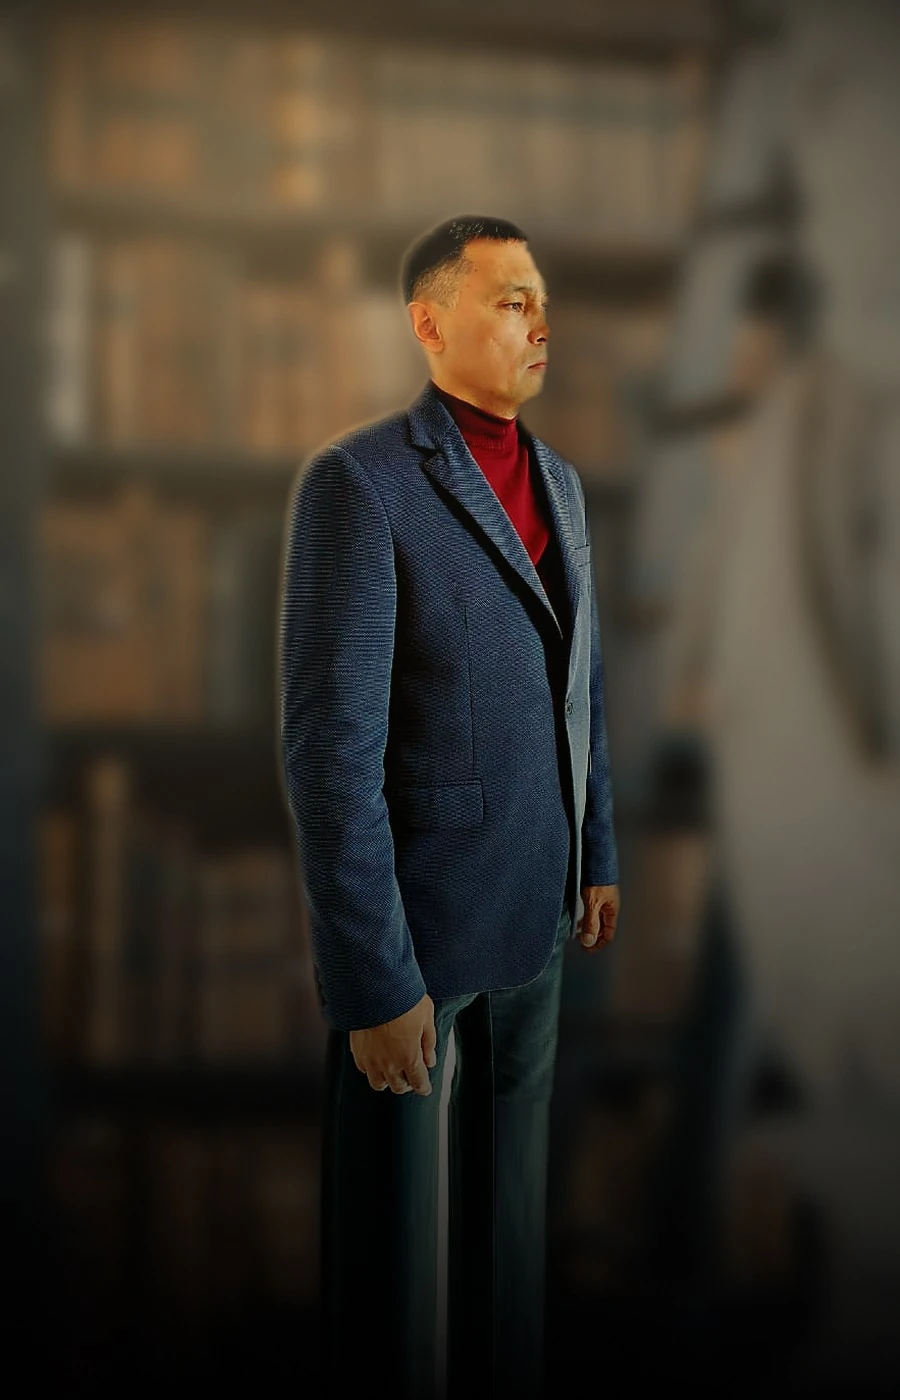
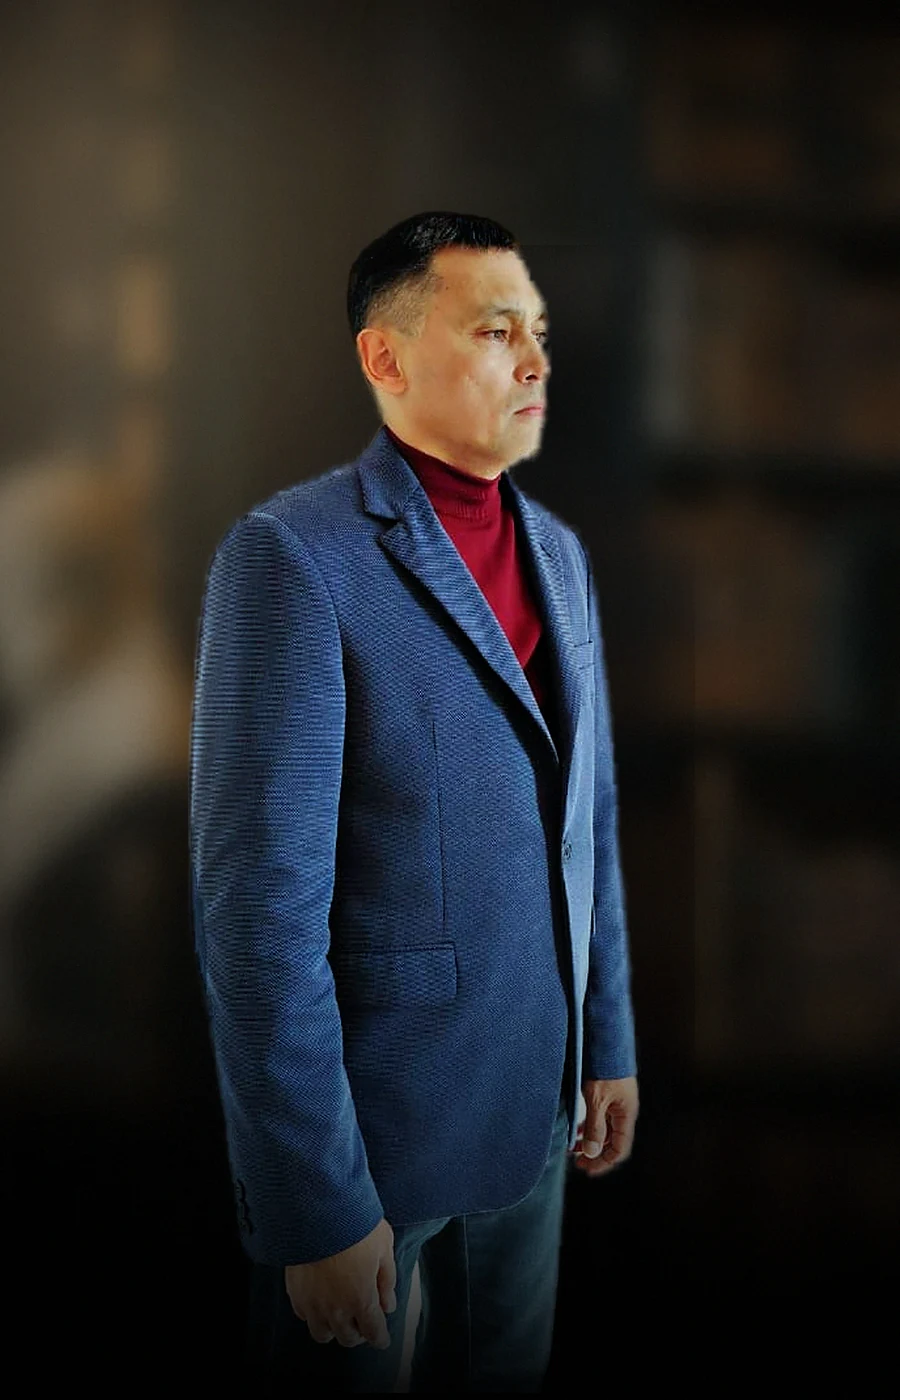
Кадр плиты пересобран с воздухом над головой, врезка из ноутбука убрана
- новый композит 2000x1200 и 900x1400: макушка на 18 % высоты, фон - настоящие стеллажи
- .plate-person: кадр приклеен к верху (origin 50% 0), scale мягче, object-position 50% 4%
- проверено на 1280/1440/1920/2560 и 390 в фазах входа - голова не режется нигде
- врезка-портрет на плите «Что принести» удалена вместе с erlan-lampa.webp
- ассеты ?v=20260909-1

Claude-Session: https://claude.ai/code/session_01RhNSLAts1pz4trK3UPD7La

diff --git a/index.html b/index.html
@@ -23,7 +23,7 @@
 <meta property="og:type" content="website">
 <meta property="og:title" content="Адвокат Ерлан Айтжанов Крупные споры о деньгах и имуществе">
 <meta property="og:description" content="Практика с 2001 года. По делам доверителей взыскано свыше 4,6 млрд тенге. Крупные споры и уголовные дела в бизнесе. Мой гонорар взыскивается с проигравшей стороны.">
-<meta property="og:image" content="assets/og-image.jpg?v=20260908-3">
+<meta property="og:image" content="assets/og-image.jpg?v=20260909-1">
 <meta property="og:locale" content="ru_RU">
 <meta name="twitter:card" content="summary_large_image">
 
@@ -41,9 +41,9 @@
 <link rel="preconnect" href="https://fonts.googleapis.com">
 <link rel="preconnect" href="https://fonts.gstatic.com" crossorigin>
 <link href="https://fonts.googleapis.com/css2?family=Prata&family=Onest:wght@400;500;600&display=swap" rel="stylesheet">
-<link rel="stylesheet" href="styles.css?v=20260908-3">
-<link rel="preload" as="image" href="assets/portrait.webp?v=20260908-3" media="(min-width:641px)" fetchpriority="high">
-<link rel="preload" as="image" href="assets/portrait-m.webp?v=20260908-3" media="(max-width:640px)" fetchpriority="high">
+<link rel="stylesheet" href="styles.css?v=20260909-1">
+<link rel="preload" as="image" href="assets/portrait.webp?v=20260909-1" media="(min-width:641px)" fetchpriority="high">
+<link rel="preload" as="image" href="assets/portrait-m.webp?v=20260909-1" media="(max-width:640px)" fetchpriority="high">
 
 <noscript><style>
 .pw{--enter:1;--stay:1;--exit:0;--intro:1}
@@ -117,10 +117,10 @@
 <div class="pw pw-hero" id="hero">
   <section class="plate hero">
     <div class="cone">
-      <picture><source media="(max-width:640px)" srcset="assets/portrait-m.webp?v=20260908-3" width="820" height="1450"><img class="ly ly-dim" src="assets/portrait.webp?v=20260908-3" alt="Адвокат Ерлан Айтжанов" width="1000" height="1333" fetchpriority="high" decoding="async"></picture>
-      <picture><source media="(max-width:640px)" srcset="assets/portrait-m.webp?v=20260908-3" width="820" height="1450"><img class="ly ly-3" src="assets/portrait.webp?v=20260908-3" alt="" aria-hidden="true" width="1000" height="1333" decoding="async"></picture>
-      <picture><source media="(max-width:640px)" srcset="assets/portrait-m.webp?v=20260908-3" width="820" height="1450"><img class="ly ly-2" src="assets/portrait.webp?v=20260908-3" alt="" aria-hidden="true" width="1000" height="1333" decoding="async"></picture>
-      <picture><source media="(max-width:640px)" srcset="assets/portrait-m.webp?v=20260908-3" width="820" height="1450"><img class="ly ly-1" src="assets/portrait.webp?v=20260908-3" alt="" aria-hidden="true" width="1000" height="1333" decoding="async"></picture>
+      <picture><source media="(max-width:640px)" srcset="assets/portrait-m.webp?v=20260909-1" width="820" height="1450"><img class="ly ly-dim" src="assets/portrait.webp?v=20260909-1" alt="Адвокат Ерлан Айтжанов" width="1000" height="1333" fetchpriority="high" decoding="async"></picture>
+      <picture><source media="(max-width:640px)" srcset="assets/portrait-m.webp?v=20260909-1" width="820" height="1450"><img class="ly ly-3" src="assets/portrait.webp?v=20260909-1" alt="" aria-hidden="true" width="1000" height="1333" decoding="async"></picture>
+      <picture><source media="(max-width:640px)" srcset="assets/portrait-m.webp?v=20260909-1" width="820" height="1450"><img class="ly ly-2" src="assets/portrait.webp?v=20260909-1" alt="" aria-hidden="true" width="1000" height="1333" decoding="async"></picture>
+      <picture><source media="(max-width:640px)" srcset="assets/portrait-m.webp?v=20260909-1" width="820" height="1450"><img class="ly ly-1" src="assets/portrait.webp?v=20260909-1" alt="" aria-hidden="true" width="1000" height="1333" decoding="async"></picture>
       <div class="ly ly-tint"></div>
       <div class="ly ly-haze"></div>
       <div class="ly ly-shade"></div>
@@ -387,7 +387,7 @@
     </div>
     <div class="adv-grid">
       <figure class="adv-photo">
-        <img src="assets/erlan-about.webp?v=20260908-3" alt="Адвокат Ерлан Айтжанов" width="1000" height="1250" loading="lazy" decoding="async">
+        <img src="assets/erlan-about.webp?v=20260909-1" alt="Адвокат Ерлан Айтжанов" width="1000" height="1250" loading="lazy" decoding="async">
       </figure>
       <div class="adv-body">
         <p class="adv-text" data-i18n="adv.t1">Веду крупные споры о деньгах: долги по договорам и поставкам, споры с партнёрами, банками и нацкомпаниями, раздел имущества, недоплата по ДТП. Отдельное направление - уголовные дела в бизнесе: налоги, хищения, должностные составы.</p>
@@ -410,12 +410,12 @@
 
 <!-- ─────────── ФОТО-ПЛИТА: до денег ─────────── -->
 <div class="pw" id="do-deneg">
-  <section class="plate photo">
+  <section class="plate photo plate-person">
     <div class="cone cone-photo">
-      <picture><source media="(max-width:900px)" srcset="assets/erlan-kabinet-m.webp?v=20260908-3" width="900" height="1400"><img class="ly ly-dim" src="assets/erlan-kabinet.webp?v=20260908-3" alt="Адвокат Ерлан Айтжанов в кабинете" width="1600" height="1067" loading="lazy" decoding="async"></picture>
-      <picture><source media="(max-width:900px)" srcset="assets/erlan-kabinet-m.webp?v=20260908-3" width="900" height="1400"><img class="ly ly-3" src="assets/erlan-kabinet.webp?v=20260908-3" alt="" aria-hidden="true" width="1600" height="1067" loading="lazy" decoding="async"></picture>
-      <picture><source media="(max-width:900px)" srcset="assets/erlan-kabinet-m.webp?v=20260908-3" width="900" height="1400"><img class="ly ly-2" src="assets/erlan-kabinet.webp?v=20260908-3" alt="" aria-hidden="true" width="1600" height="1067" loading="lazy" decoding="async"></picture>
-      <picture><source media="(max-width:900px)" srcset="assets/erlan-kabinet-m.webp?v=20260908-3" width="900" height="1400"><img class="ly ly-1" src="assets/erlan-kabinet.webp?v=20260908-3" alt="" aria-hidden="true" width="1600" height="1067" loading="lazy" decoding="async"></picture>
+      <picture><source media="(max-width:900px)" srcset="assets/erlan-kabinet-m.webp?v=20260909-1" width="900" height="1400"><img class="ly ly-dim" src="assets/erlan-kabinet.webp?v=20260909-1" alt="Адвокат Ерлан Айтжанов в кабинете" width="2000" height="1200" loading="lazy" decoding="async"></picture>
+      <picture><source media="(max-width:900px)" srcset="assets/erlan-kabinet-m.webp?v=20260909-1" width="900" height="1400"><img class="ly ly-3" src="assets/erlan-kabinet.webp?v=20260909-1" alt="" aria-hidden="true" width="2000" height="1200" loading="lazy" decoding="async"></picture>
+      <picture><source media="(max-width:900px)" srcset="assets/erlan-kabinet-m.webp?v=20260909-1" width="900" height="1400"><img class="ly ly-2" src="assets/erlan-kabinet.webp?v=20260909-1" alt="" aria-hidden="true" width="2000" height="1200" loading="lazy" decoding="async"></picture>
+      <picture><source media="(max-width:900px)" srcset="assets/erlan-kabinet-m.webp?v=20260909-1" width="900" height="1400"><img class="ly ly-1" src="assets/erlan-kabinet.webp?v=20260909-1" alt="" aria-hidden="true" width="2000" height="1200" loading="lazy" decoding="async"></picture>
       <div class="ly ly-tint"></div>
       <div class="ly ly-shade"></div>
     </div>
@@ -480,9 +480,6 @@
       <div class="ly ly-tint"></div>
       <div class="ly ly-shade"></div>
     </div>
-    <figure class="plate-inset">
-      <img src="assets/erlan-lampa.webp?v=20260908-3" alt="Адвокат Ерлан Айтжанов" width="900" height="1200" loading="lazy" decoding="async">
-    </figure>
     <div class="txt">
       <p class="kicker" data-i18n="k.kicker">Что принести</p>
       <h2 class="h2 h2-plate" data-i18n="k.h2">Полчаса с документами - и прямой ответ</h2>
@@ -590,6 +587,6 @@
   <a class="bar-wa" href="https://wa.me/77783751093" target="_blank" rel="noopener" data-track="wa">WhatsApp</a>
 </div>
 
-<script src="script.js?v=20260908-3" defer></script>
+<script src="script.js?v=20260909-1" defer></script>
 </body>
 </html>

diff --git a/styles.css b/styles.css
@@ -371,13 +371,8 @@ html.no-plate .plate{position:relative;min-height:0;height:auto}
   .adv-line li{grid-template-columns:1fr;gap:4px;padding:13px 2px}
 }
 
-/* ─── врезка-портрет на фото-плите ─── */
-.plate-inset{position:absolute;margin:0;left:50%;top:50%;translate:-50% -50%;
-  width:clamp(150px,19vw,270px);aspect-ratio:3/4;overflow:hidden;border-radius:14px;
-  border:1px solid rgba(201,164,92,.35);box-shadow:0 30px 64px rgba(0,0,0,.6);z-index:2}
-.plate-inset img{width:100%;height:100%;object-fit:cover;object-position:50% 18%;display:block}
-.plate-inset::after{content:"";position:absolute;inset:0;
-  background:linear-gradient(180deg,rgba(233,207,142,.10),rgba(10,10,12,0) 45%,rgba(10,10,12,.4) 100%)}
-@media (max-width:900px){
-  .plate-inset{left:50%;top:44%;translate:-50% -50%;width:clamp(140px,42vw,210px)}
+/* ─── фото-плита с человеком: кадр приклеен к верху, макушка не режется ─── */
+.plate-person .cone{transform-origin:50% 0%;transform:scale(calc(1.07 - .07 * var(--open)))}
+.plate-person .ly{object-position:50% 4%}
+@media (max-width:900px){.plate-person .ly{object-position:50% 2%}}
 }
